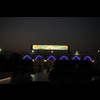
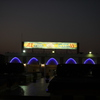
get rid of black bars

diff --git a/page/index.htm b/page/index.htm
@@ -545,7 +545,7 @@ Tags:
 Takeaway
 </p>
 <p class="plaintext"><a href="https://www.openstreetmap.org/?mlat=22.287154&mlon=39.114068#map=19/22.287154/39.114068">Location</a></p>
-<p class="plaintext">Page created on Sat Feb 13 21:28:37 2016. Restaurant locations from <a href="https://www.openstreetmap.org/">OSM</a>. Other content by Juho H&auml;pp&ouml;l&auml; and Grace Gruendler. Available under <a href="http://creativecommons.org/licenses/by-nc-sa/4.0/">CC BY-NC-SA 4.0</a></p></div>
+<p class="plaintext">Page created on Sun Feb 14 10:56:32 2016. Restaurant locations from <a href="https://www.openstreetmap.org/">OSM</a>. Other content by Juho H&auml;pp&ouml;l&auml; and Grace Gruendler. Available under <a href="http://creativecommons.org/licenses/by-nc-sa/4.0/">CC BY-NC-SA 4.0</a></p></div>
 <script src="./leaflet.js"></script><script>
 var tehIcon = L.icon({
 iconUrl: './pin.png',

diff --git a/page/writehtm.py b/page/writehtm.py
@@ -234,7 +234,7 @@ def getRestaurants(fn='restaurants.tsv'):
             thumbNailSize = 100
             pixelCount = 500*500
             while '%04d_%d.jpg'%(int(tID),picId) in os.listdir('./pics/'):
-                command1 =  'convert ./pics/%04d_%d.jpg -trim +repage -resize %dx%d -gravity center -background none -extent %dx%d ./pics/%04d_%d_t.jpg'%(int(tID),picId,thumbNailSize,thumbNailSize,thumbNailSize,thumbNailSize,int(tID),picId)
+                command1 =  'convert ./pics/%04d_%d.jpg -thumbnail %dx%d^ -gravity center -extent %dx%d ./pics/%04d_%d_t.jpg'%(int(tID),picId,thumbNailSize,thumbNailSize,thumbNailSize,thumbNailSize,int(tID),picId)
                 command2 = 'convert ./pics/%04d_%d.jpg -resize %d@ ./pics/%04d_%d_s.jpg'%(int(tID),picId,pixelCount,int(tID),picId)
                 os.system(command1)
                 os.system(command2)
